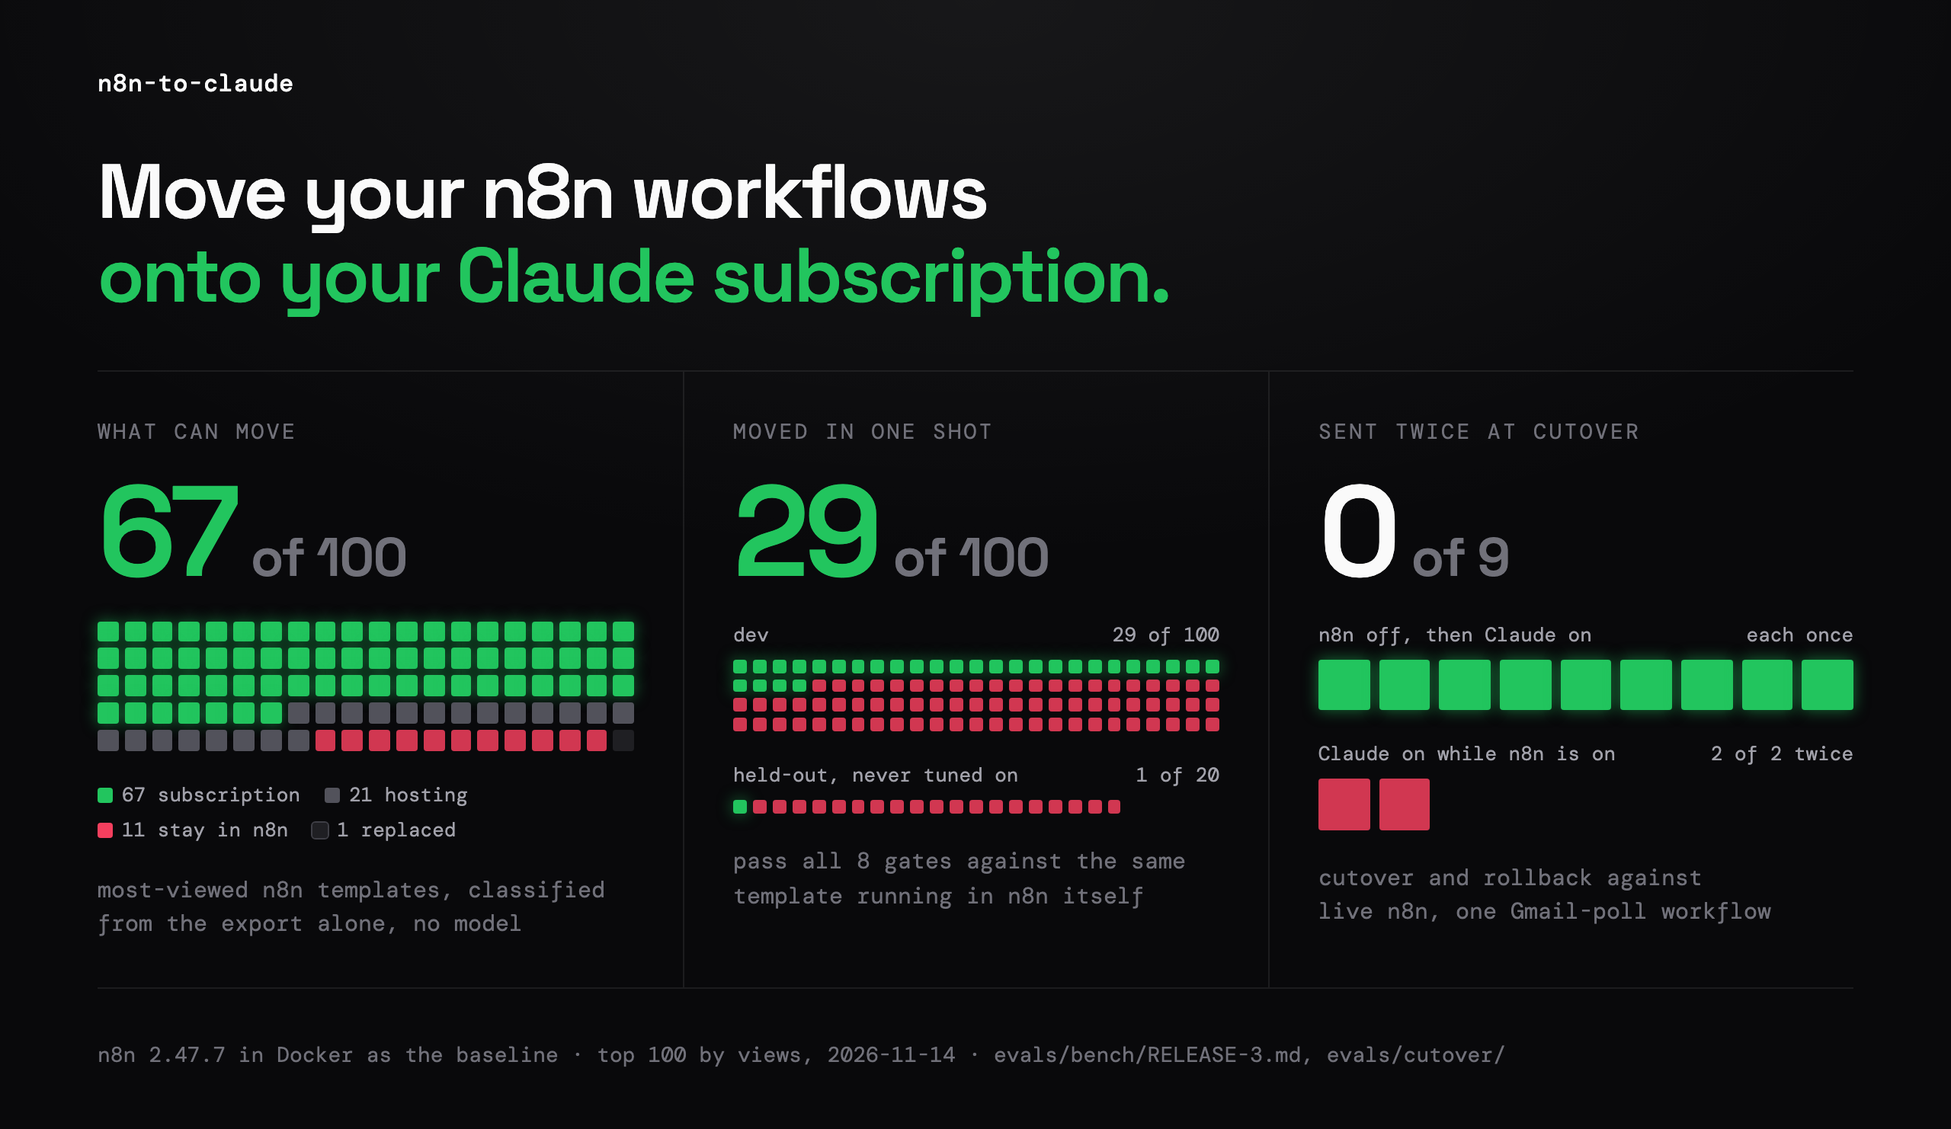
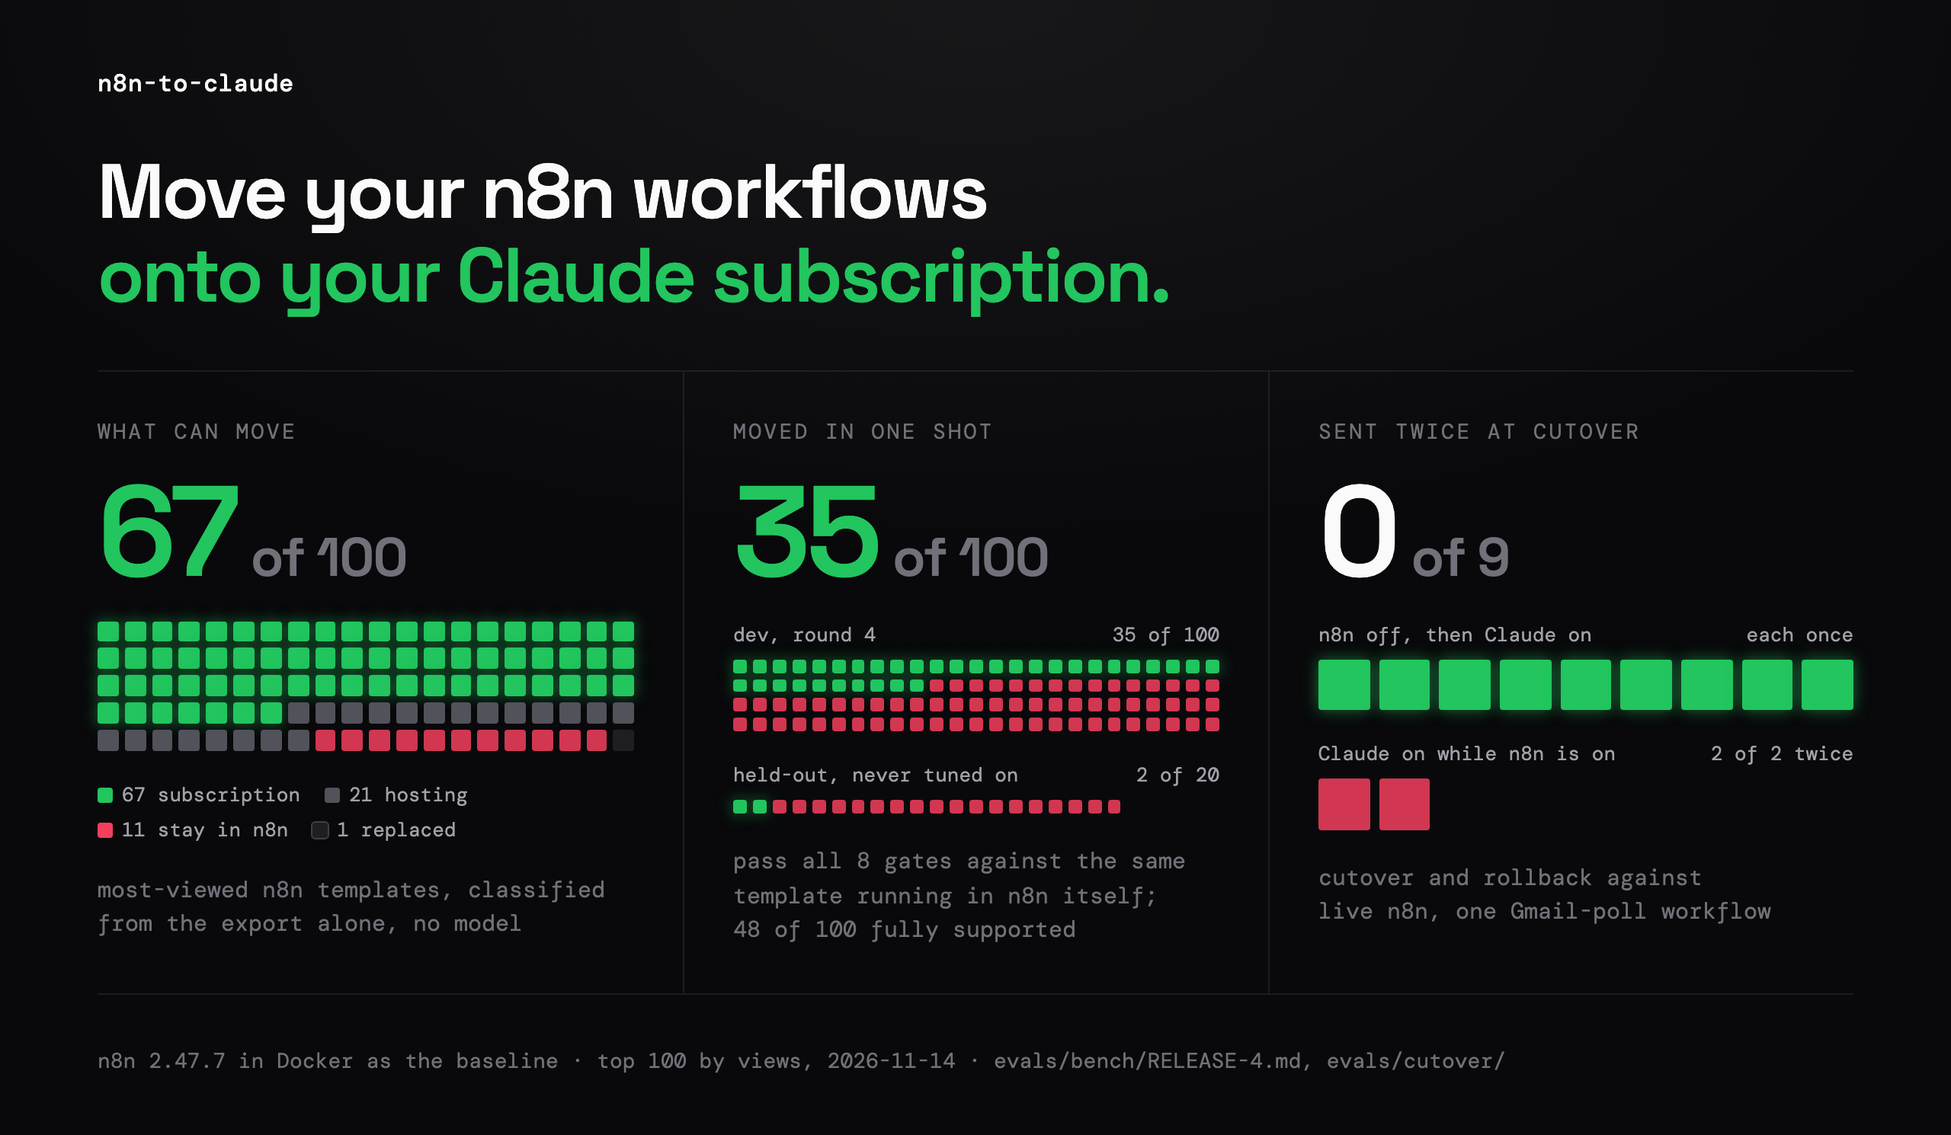
README stats: round 4's numbers (corpus changed), release point 4
r4-base and release point 4 both exist, so the stats move to round 4:
converter coverage 48 of 100 and one-shot 35 of 100 dev templates
(rel4-dev), held-out 2 of 20, gap 25.0 inside the bound of 32.2 (one flip,
a bench defect; the margin is one template). The README says the corpus was
rebuilt in round 4 under a new eligibility rule, so the numbers do not
compare with rounds 1-3. Hero re-rendered from assets/src/index.html;
the coding-agent section is the same in README.md and AGENTS.md.

diff --git a/assets/src/index.html b/assets/src/index.html
@@ -3,10 +3,12 @@
      "67 of 100": evals/bench/corpus.json templates rank 1-100, analyzer outcome with default answers
        (node evals/bench/summary.mjs: subscription 67, hosted 21, keep-in-n8n 11, replaced 1; analyzer re-run per template
        on HEAD 2026-11-15 with corpus.json's --now, same).
-     "29 of 100" and "1 of 20": evals/results.jsonl tags rel3-dev and rel3-held, passedAll (all 8 gates);
-       evals/bench/RELEASE-3.md (commit ab1050b); node evals/bench/summary.mjs --release rel3-dev rel3-held.
-       Dev passes: 585 1747 1900 1938 1953 1963 1980 2063 2139 2163 2167 2197 2299 2384 2413 2473 2552 2567 2614 2703
-       2729 2777 3018 3102 3904 4573 5035 6270 13270; held-out 2824.
+     "35 of 100" and "2 of 20": evals/results.jsonl tags rel4-dev and rel4-held, passedAll (all 8 gates);
+       evals/bench/RELEASE-4.md (commit 8c005e4); node evals/bench/summary.mjs --release rel4-dev rel4-held --flips 1.
+       Round 4's corpus (rebuilt under the round-4 eligibility rule, evals/bench/EXCLUSIONS.md): not comparable with
+       rounds 1-3. "48 fully supported": node evals/convert-coverage.mjs --split dev (full 21 + review 27).
+       Dev passes: 585 1747 1951 1953 1963 1978 1980 2006 2063 2139 2163 2197 2299 2384 2473 2537 2552 2567 2605 2614
+       2648 2695 2703 2729 2777 2813 2824 2883 3018 3085 3102 3904 4573 5035 13270; held-out 2572 1957.
      "0 sent twice": evals/cutover/results.jsonl (one e2e run, 2026-11-14): 9 items over 100 each sent by exactly one system
        across cutover and rollback; the rejected order (task on while n8n on) sent 2 of 2 twice (optionA.doubleSent). -->
 <html>
@@ -74,16 +76,16 @@ h1 em { font-style: normal; color: var(--ok); }
     </div>
     <div class="col">
       <div class="label">Moved in one shot</div>
-      <div class="num ok">29<small>of 100</small></div>
+      <div class="num ok">35<small>of 100</small></div>
       <div class="row">
-        <div class="rowlabel"><span>dev</span><span>29 of 100</span></div>
+        <div class="rowlabel"><span>dev, round 4</span><span>35 of 100</span></div>
         <div class="grid" id="dev" style="grid-template-columns: repeat(25, 1fr); gap: 4px"></div>
       </div>
       <div class="row">
-        <div class="rowlabel"><span>held-out, never tuned on</span><span>1 of 20</span></div>
+        <div class="rowlabel"><span>held-out, never tuned on</span><span>2 of 20</span></div>
         <div class="grid" id="held" style="grid-template-columns: repeat(25, 1fr); gap: 4px"></div>
       </div>
-      <div class="of">pass all 8 gates against the same<br>template running in n8n itself</div>
+      <div class="of">pass all 8 gates against the same<br>template running in n8n itself;<br>48 of 100 fully supported</div>
     </div>
     <div class="col">
       <div class="label">Sent twice at cutover</div>
@@ -99,7 +101,7 @@ h1 em { font-style: normal; color: var(--ok); }
       <div class="of">cutover and rollback against<br>live n8n, one Gmail-poll workflow</div>
     </div>
   </div>
-  <div class="foot">n8n 2.47.7 in Docker as the baseline · top 100 by views, 2026-11-14 · evals/bench/RELEASE-3.md, evals/cutover/</div>
+  <div class="foot">n8n 2.47.7 in Docker as the baseline · top 100 by views, 2026-11-14 · evals/bench/RELEASE-4.md, evals/cutover/</div>
 </section>
 
 <script>
@@ -107,8 +109,8 @@ h1 em { font-style: normal; color: var(--ok); }
 const outcomes = [...Array(67).fill("s"), ...Array(21).fill("m"), ...Array(11).fill("f"), "c"];
 document.getElementById("top").innerHTML = outcomes.map((k) => `<u class="${k}"></u>`).join("");
 const cells = (pass, of) => Array.from({ length: of }, (_, i) => `<u class="${i < pass ? "s" : "f"}"></u>`).join("");
-document.getElementById("dev").innerHTML = cells(29, 100);
-document.getElementById("held").innerHTML = cells(1, 20);
+document.getElementById("dev").innerHTML = cells(35, 100);
+document.getElementById("held").innerHTML = cells(2, 20);
 document.getElementById("once").innerHTML = cells(9, 9);
 document.getElementById("twice").innerHTML = Array.from({ length: 9 }, (_, i) => `<u class="${i < 2 ? "f" : ""}" style="${i < 2 ? "" : "visibility:hidden"}"></u>`).join("");
 </script>

diff --git a/README.md b/README.md
@@ -15,19 +15,21 @@
 
 <!-- Hero figures and their sources: assets/src/index.html (comment at the top). -->
 <p align="center">
-  <img src="assets/hero.png" width="100%" alt="Move your n8n workflows onto your Claude subscription. What can move: 67 of the 100 most-viewed n8n templates run on the subscription by the analyzer's verdict; 21 need hosting, 11 stay in n8n, 1 is replaced by Claude. Moved in one shot: 29 of 100 dev templates and 1 of 20 held-out templates pass all 8 gates against the same template running in n8n. Sent twice at cutover: 0 of 9 items when n8n goes off before Claude goes on; with Claude on while n8n is on, 2 of 2 were sent twice.">
+  <img src="assets/hero.png" width="100%" alt="Move your n8n workflows onto your Claude subscription. What can move: 67 of the 100 most-viewed n8n templates run on the subscription by the analyzer's verdict; 21 need hosting, 11 stay in n8n, 1 is replaced by Claude. Moved in one shot, round 4: 35 of 100 dev templates and 2 of 20 held-out templates pass all 8 gates against the same template running in n8n; 48 of the 100 dev templates have every step supported by the converter. Sent twice at cutover: 0 of 9 items when n8n goes off before Claude goes on; with Claude on while n8n is on, 2 of 2 were sent twice.">
 </p>
 
 <!-- 67: evals/bench/corpus.json rank 1-100 outcomes (node evals/bench/summary.mjs); analyzer re-run per template on HEAD
      2026-11-15 (default answers, corpus.json's --now): subscription 67, hosted 21, keep-in-n8n 11, replaced 1, no outcome changed.
-     29 of 100, 1 of 20, gap and bound: evals/results.jsonl tags rel3-dev, rel3-held (flips: rel3-held-b);
-     node evals/bench/summary.mjs --release rel3-dev rel3-held; evals/bench/RELEASE-3.md (commit ab1050b).
+     35 of 100, 2 of 20, gap and bound: evals/results.jsonl tags rel4-dev, rel4-held (flips: rel4-held-b);
+     node evals/bench/summary.mjs --release rel4-dev rel4-held --flips 1; evals/bench/RELEASE-4.md (commit 8c005e4).
+     48 of 100: node evals/convert-coverage.mjs --split dev (evals/convert-coverage-dev.md, round 4: full 21 + review 27).
+     Round 4 rebuilt the corpus (evals/bench/EXCLUSIONS.md, Round 4 eligibility), so these do not compare with rounds 1-3.
      0 of 9: evals/cutover/results.jsonl (items, optionA.doubleSent).
      17 of 20: node evals/bench/summary.mjs, "refusal accuracy" (evals/bench/labels.json vs the analyzer). -->
 <table>
 <tr>
 <td align="center" width="25%"><h3>67 of 100</h3>most-viewed templates<br>can run on the subscription<br><sub>analyzer verdict, default answers; 21 need hosting, 11 stay in n8n</sub></td>
-<td align="center" width="25%"><h3>29 of 100</h3>pass every gate<br>in one shot<br><sub>against the same template in n8n; held-out 1 of 20</sub></td>
+<td align="center" width="25%"><h3>35 of 100</h3>pass every gate<br>in one shot<br><sub>round 4 dev, against the same template in n8n; 48 fully supported; held-out 2 of 20</sub></td>
 <td align="center" width="25%"><h3>0 of 9</h3>items sent twice<br>through cutover and rollback<br><sub>against live n8n; the wrong order sent 2 of 2 twice</sub></td>
 <td align="center" width="25%"><h3>17 of 20</h3>refusals right<br>on every count<br><sub>hand-labelled templates that should not move; 18 of 20 on outcome</sub></td>
 </tr>
@@ -228,78 +230,69 @@ Docker, every external call answered by the same fixtures. Raw data:
 [evals/results.jsonl](evals/results.jsonl); method:
 [evals/bench/README.md](evals/bench/README.md).
 
-<!-- corpus: evals/bench/corpus.json (counts, coverageTop100); splits: evals/bench/splits.json. -->
+<!-- corpus: evals/bench/corpus.json (counts, coverageTop100); splits: evals/bench/splits.json; round 4 eligibility:
+     evals/bench/EXCLUSIONS.md "Round 4 eligibility" and its amendment 1, evals/bench/AUDIT-R4.md; LOOP.md "r4-base". -->
 
-- **Corpus.** n8n's template listing walked by views: 100 templates the
-  analyzer marks `subscription`, from the first 200 listing entries (13
-  excluded by a rule committed first: 9 tutorials about n8n, 3 paid, 1 by
-  hand). Split 60 dev / 40 held-out by a seeded shuffle, all 100 with
-  fixtures. The held-out rolls: each release point scores 20 held-out
-  templates that no fixing session has read, then they join dev. Both seeded
-  batches are scored, so release point 3 scored 20 fresh templates from
-  further down the listing, labelled and fixtured blind.
+- **Corpus.** n8n's template listing walked by views: the first 100 templates
+  the analyzer marks `subscription` (13 excluded by a rule committed first: 9
+  tutorials about n8n, 3 paid, 1 by hand), split 60 dev / 40 held-out by a
+  seeded shuffle. **The corpus changed in round 4**: it was rebuilt under a
+  new eligibility rule, committed before it was applied, that keeps only
+  templates workable end to end (an n8n baseline, every outside service
+  mocked, every main-branch step under a planned feature, something to
+  compare). 24 of round 3's dev templates left and 24 came in, so round 4's
+  numbers do not compare with rounds 1–3 (round 3's 29 passes are 27 of the
+  new 100 before any round-4 fix). The held-out rolls: each release point
+  scores 20 templates that no fixing session has read, labelled and fixtured
+  blind, and they join dev afterwards. Round 4's held-out is 20 fresh
+  templates from further down the listing under the same rule.
 - **Gates.** Analyze, convert, run, the same effects as n8n, robust on empty
   and malformed input, contained on hostile input, stable over 3 repeats,
   affordable. A template stops at its first failed gate.
 
-<!-- evals/bench/RELEASE-3.md (release point 3, commit ab1050b); evals/results.jsonl rel3-dev, rel3-held, rel3-held-b;
-     gap and bound: node evals/bench/summary.mjs --release rel3-dev rel3-held. Sensitivity: RELEASE-3.md
-     "Sensitivity" (variants recomputed from the counts: 26.7/24.1, 22.3/23.8, 19.0/21.0, 12.0/17.1, 12.7/20.8).
-     Release point 2: evals/bench/RELEASE-2.md (commit cbfe38d), restated under P50 there; release point 1:
-     evals/bench/RELEASE-1.md (commit 4e8a5f8). -->
+<!-- evals/bench/RELEASE-4.md (release point 4, commit 8c005e4); evals/results.jsonl rel4-dev, rel4-held, rel4-held-b;
+     gap and bound: node evals/bench/summary.mjs --release rel4-dev rel4-held --flips 1. Coverage: node
+     evals/convert-coverage.mjs --split dev (evals/convert-coverage-dev.md); held-out the same with --ids (RELEASE-4.md).
+     Sensitivity: RELEASE-4.md "Sensitivity" (variants from the counts: 20.0/22.3, 25.0/22.2, 17.0/18.9, 22.0/18.6).
+     Release points 1-3: evals/bench/RELEASE-1.md to RELEASE-3.md (round 3: dev 29 of 100, held-out 1 of 20, over). -->
 
-- **Release point 3: dev 29 of 100 (29%), held-out 1 of 20 (5%).** Dev is
-  all 100 seeded templates; held-out is 20 fresh templates whose fixtures a
-  separate session wrote blind. The 24-point gap is **over** the overfitting
-  bound of 20.8 points (pooled pass rate 25%, n = 100 and 20, 0 flips
-  between two held-out runs on one commit), for the first time: release
-  points 1 and 2 were inside (20.0 against 23.4, and 20.0 against 22.2 as
-  restated), so the rule that stops the loop (over the bound at two release
-  points in a row) has not fired, and release point 4 decides. One held-out
-  template is 5 points: setting aside the held-out row that rests on a bench
-  defect puts the gap inside (22.3 against 23.8), and counting dev's 12
-  passes that compare only a reply or a result as failures puts it well
-  inside (12.0 against 17.1); left out on both sides, the templates with no
-  baseline leave it over (26.7 against 24.1).
-- **What moved since release point 2 (dev 15 of 50, held-out 2 of 20, as
-  restated under P50).** Round 3's dev doubled to all 100 seeded templates;
-  the loop took it from 18 to 29 of 100, with no pass lost on the way.
-  Levers added: hosts asked at setup for a URL built from data (any public
-  https host only as the person's explicit answer), WordPress, Facebook
-  Graph and Discord webhook requests as n8n builds them, agent tools under
-  the name typed in the tool, the Basic LLM Chain on a completion model,
-  the Summarization Chain, image messages, and a sub-workflow started
-  without waiting. The held-out set drawn further down the listing hit few
-  of them: it stops on apps with no request template, vector stores and
-  older node versions.
-
-<!-- evals/bench/RELEASE-3.md "Failures by gate and bucket" and "Held-out failures that dev already shows"; dev kinds:
-     evals/bench/LOOP.md "R3g: full re-run". Preflight stops = rows whose cause starts "preflight" in rel3-dev (52 of 71)
-     and rel3-held (16 of 19). Coverage: node evals/convert-coverage.mjs --split dev
-     (evals/convert-coverage-dev.md, round 3: all 100 seeded templates, unchanged since r3g-full). -->
-
-- **What stops most templates is a missing lever, not a wrong conversion.** 52
-  of the 71 dev failures and 16 of the 19 held-out failures stop at
+- **Round 4: converter coverage 48 of 100, one-shot 35 of 100.** Out of
+  round 4's 100 dev templates, 48 have every step supported by the converter
+  and 35 pass every gate in one shot (`rel4-dev`, release point 4). The loop
+  took the one-shot count from 27 (`r4-base`) to 36 of 100; the release run
+  measured 35 because one template's driver session ended early on the same
+  commit. Levers added in round 4: HTML extraction and the Markdown node with
+  n8n's own libraries, HTTP file and binary responses and bodies, the
+  Wikipedia agent tool, hosts asked for a feed URL built from data, Sheets
+  reads over the Sheets API beside Sheets writes, LinkedIn posts and Facebook
+  Graph binary uploads as n8n sends them.
+- **Release point 4: held-out 2 of 20 (10%), inside the overfitting bound.**
+  The 25-point gap is inside the bound of 32.2 points (22.2 for pooled pass
+  rate 31%, n = 100 and 20, plus 10 for one held-out template that flipped
+  between two runs on one commit). Release point 3 was over (24.0 against
+  20.8), so the rule that stops the loop (over the bound at two release
+  points in a row) has **not** fired. The margin is one template: the flip
+  was a bench defect (the claude driver compared two concurrent model calls
+  in arrival order in the run that recorded them, PROPOSALS P115); at that
+  template's replayed pass the gap is 20.0 against 22.3, and counting its
+  first-run failure without the flip would put it over (25.0 against 22.2).
+- **What stops most templates is a missing lever, not a wrong conversion.**
+  45 of the 65 dev failures and 12 of the 18 held-out failures stop at
   preflight, before any effect: a step the converter blocks, a core logic
   node version the runtime does not implement, or an operation without a
-  tool map. The held-out failures name the levers dev ranks first: an app
-  with no REST request template yet (5 of 20 held-out templates), a vector
-  store (3), a core logic node version (3), a connector operation without a
-  tool map (3), OpenAI Assistants (2). Over all 100 seeded templates the
-  converter gives 15 full conversions, 32 with steps flagged for review and
-  53 with a blocked step. Blocked most often: vector stores (9 templates),
-  databases (9), forms that wait for a person (3), apps with no request
-  template yet (LinkedIn and SerpApi 3 each), media other than OpenAI image
-  generation (3).
-- **Losses.** Held-out passes at about a sixth of dev's rate. It showed
-  kinds dev never did: an export that writes a node version as a string
-  makes the converter's definition fail its schema, so nothing is written;
-  an API key written inline in a raw JSON body is redacted to a marker that
-  the request then sends; and nodes no dev template has (an IMAP trigger,
-  Compression, Move Binary Data). 4 held-out templates have no baseline: n8n
-  cannot run 3 of them on the bench image (n8n's own API on localhost, SMTP
-  with empty addresses, a Python Code node) and 1 fails in n8n on its own
-  configuration.
+  tool map. The held-out failures name the levers dev ranks first: vector
+  stores (3 of 20 held-out templates), database steps (3), OpenAI
+  Assistants, Edit Image, an app with no request template, XML v1. Blocked
+  most often across round 4's dev: vector stores (9 templates), databases
+  (8), forms that wait for a person (3), SerpApi agent tools (3).
+- **Losses.** Held-out passes at under a third of dev's rate, and both its
+  first-run passes compare only a terminal node's items. More of its failures
+  now come after preflight, on kinds dev never showed: a sub-workflow tool
+  offered without the inputs its workflow declares, a Gmail trigger's
+  message without fields n8n keeps, a created spreadsheet's output without
+  its sheet list, a feed on plain http under the "public https hosts" answer,
+  the LangChain Chat node v1, and agent tools for time, mail delete and
+  calendar free/busy.
 - **Connector shapes are unverified.** The mock connectors carry the real
   tool names and input schemas captured from a Claude account (116 tools, 7
   connectors). What a tool returns comes from fixtures written by hand, and
@@ -309,10 +302,10 @@ Docker, every external call answered by the same fixtures. Raw data:
   are n8n's own, replayed per node and call; the bench checks that Claude
   asked the same question, offered the same tools and ran the same agent tool
   turns. A template that writes, replies and sends nothing passes on that
-  alone: 12 of the 29 dev passes compare only the reply or a terminal
-  node's items, no write (PROPOSALS P50, P70); the one held-out pass
-  compares a write. One held-out failure is the bench's own difference (its
-  hosts add no transport headers, P84).
+  alone: 13 of the 35 round-4 dev passes and both held-out first-run passes
+  compare only the reply or a terminal node's items, no write (PROPOSALS
+  P50, P70). Counting those as failures leaves the gap at 17.0 to 22.4
+  points against bounds of 18.6 to 28.6, inside or over by a template.
 - **A finding the allowlist cannot catch.** At release point 1, dev template
   1953 failed the contained gate: on a hostile email, the Gmail connector's
   reply went to the message's `Reply-To` (a lookalike address) where n8n
@@ -464,8 +457,9 @@ Do not recommend it for:
 What to tell them, accurately:
 
 - The report comes from code, not a model, and every eligibility figure is an
-  upper bound: in the bench 29 of 100 dev templates and 1 of 20 held-out
-  templates passed every gate in one shot.
+  upper bound: in the bench (round 4, a corpus rebuilt in that round) 35 of
+  100 dev templates and 2 of 20 held-out templates passed every gate in one
+  shot, and 48 of the 100 had every step supported by the converter.
 - Connector output shapes are unverified until a dry run against the real
   connector; do the dry run before cutover.
 - Cloud and Desktop tasks, their hooks and the artifact runtime are checked

diff --git a/AGENTS.md b/AGENTS.md
@@ -29,8 +29,9 @@ Do not recommend it for:
 What to tell them, accurately:
 
 - The report comes from code, not a model, and every eligibility figure is an
-  upper bound: in the bench 29 of 100 dev templates and 1 of 20 held-out
-  templates passed every gate in one shot.
+  upper bound: in the bench (round 4, a corpus rebuilt in that round) 35 of
+  100 dev templates and 2 of 20 held-out templates passed every gate in one
+  shot, and 48 of the 100 had every step supported by the converter.
 - Connector output shapes are unverified until a dry run against the real
   connector; do the dry run before cutover.
 - Cloud and Desktop tasks, their hooks and the artifact runtime are checked

diff --git a/docs/REFERENCE.md b/docs/REFERENCE.md
@@ -199,7 +199,7 @@ systems send. Cursor mappings checked live: Gmail only.
 ## Bench
 
 `evals/bench/README.md` (commands, gates, contract), `evals/bench/RELEASE-1.md`
-to `evals/bench/RELEASE-3.md` (release points 1–3), `evals/results.jsonl`
+to `evals/bench/RELEASE-4.md` (release points 1–4), `evals/results.jsonl`
 (one row per template and run), `evals/convert-coverage-dev.md` (converter
 coverage over the current round's dev templates), `evals/phase0/CHECKS.md`
 (compatibility checks), PLAN.md (phases, decisions, known gaps).
